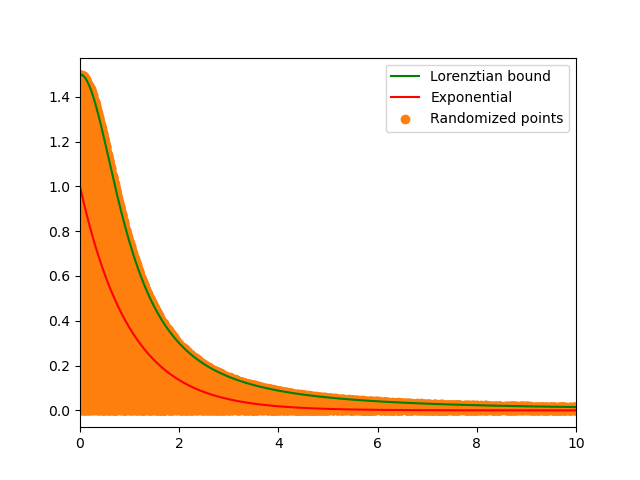
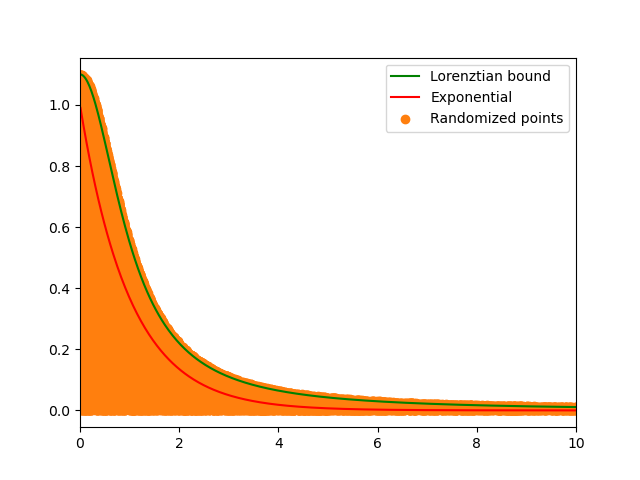
wip

diff --git a/problem_sets/ps7/ps7.py b/problem_sets/ps7/ps7.py
@@ -41,13 +41,13 @@ x = np.tan(y)
 # P(x) = 1/(1+x^2) Lorentzian goes to 1 at 0, so this is better than a 
 # power law, which goes to inf at 0 and becomes difficult to deal with.
 
-P = 1.5/(1+x**2)
+P = 1.1/(1+x**2)
 Pp = np.random.rand(n)*P
 
-bins=np.linspace(0,10,501)
-cents=0.5*(bins[1:]+bins[:-1])
+bins=np.linspace(0, 10, 501) # Change number of bins?
+cents=0.5*(bins[1:] + bins[:-1])
 
-lor = 1.5/(1 + cents**2)
+lor = 1.1/(1 + cents**2)
 exp = np.exp(-cents)
 
 f3 = plt.figure()
@@ -61,15 +61,50 @@ plt.savefig('rand_points_under_bound.png')
 accept = Pp < np.exp(-x)
 x_acc = x[accept]
 
-hist, bin_edges = np.histogram(x_acc, bins)
+hist, bin_edges = np.histogram(x_acc, bins, range = (0, 10))
 hist = hist/np.sum(hist)
 exp = exp/np.sum(exp)
 
 f4 = plt.figure()
-plt.scatter(cents, hist, marker = '.')
-plt.plot(cents, exp)
+plt.bar(cents, hist, 0.05)
+plt.plot(cents, exp, c = 'r')
+plt.savefig('hist_deviates_100000.png') 
 
-# How efficient can I make this? (Part of the question)
+# How efficient can I make this? --> n = 10000 appears to be lower limit
+# for deviates to be considered reasonably exponentially distributed. Could
+# use a bounding function that is closer in shape to an exponential, but 
+# the lorentzian does a pretty good job of this as is. A Gaussian ends up
+# dipping below the exponential and requires a relatively large sigma to
+# remain above the exp, and a power law goes to infinity at 0, undesirable 
+# behavior. The lorentzian is greater than the exp for all values (at least
+# those I use here) and reasonably follows a decaying exponential.
 
-#-----------------------------------------------------------------------------#
+#-----------------------------------------------------------------------------
 # (3)
+
+u = np.linspace(0, 1, 1000)
+u = u[1:]
+# u < exp(-x), where x = v/u
+# ln(u) = -x = -v/u --> v = -uln(u)
+
+v = -u*np.log(u)
+vmax = max(v)
+limits = [min(v), max(v)]
+print('limits on v are', limits)
+
+# f6 = plt.figure()
+# plt.plot(u, v)
+# plt.plot(u, -v)
+
+n2 = 100000
+u2 = np.random.rand(n2)
+v2 = np.random.rand(n2)*vmax
+x2 = v2/u2
+accept2 = u2 < np.exp(-x2)
+x2_acc = x2[accept2]
+
+hist2, bin_edges2 = np.histogram(x2_acc, 50, range = (0, 3))
+cents2 = 0.5*(bin_edges2[1:] + bin_edges2[:-1])
+
+f7 = plt.figure()
+plt.bar(cents2, hist2, 0.05)
